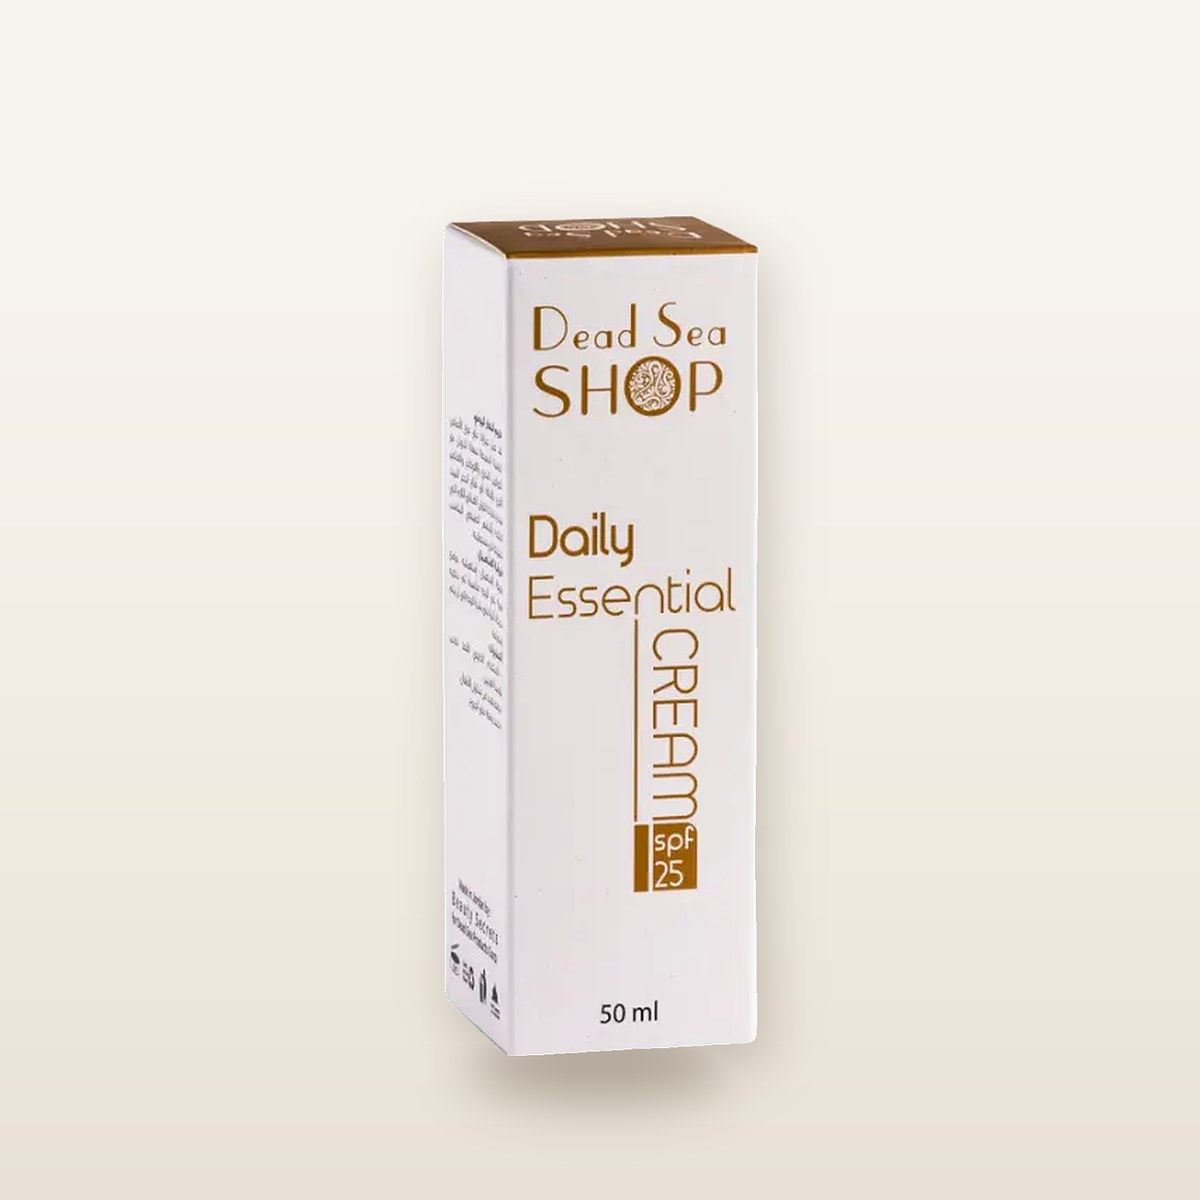
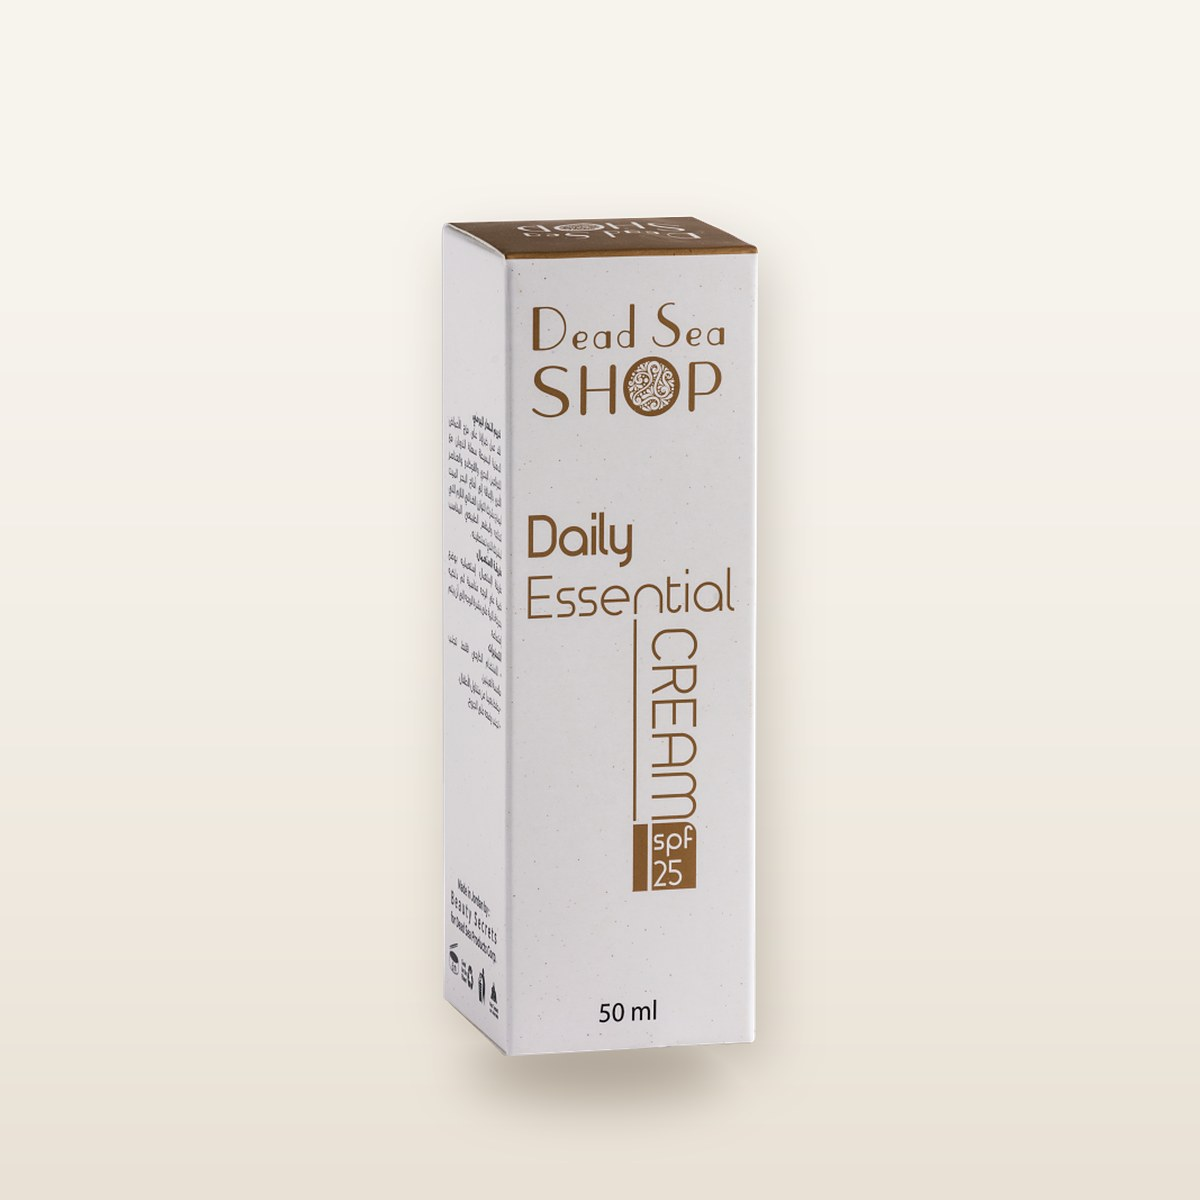
Use Beauty Secrets' own transparent PNGs for 6 products (sharper)

diff --git a/tools/room-salt/studio.py b/tools/room-salt/studio.py
@@ -41,6 +41,12 @@ def compose(sku, cut, fill=0.74):
 sess = new_session(sys.argv[1] if len(sys.argv) > 1 else "isnet-general-use")
 skus = sys.argv[2].split(",") if len(sys.argv) > 2 else sorted(set(SRC) | set(C))
 for sku in skus:
+    png = os.path.join(S, "png", sku + ".png")
+    if os.path.exists(png):  # supplier's own transparent cut-out, sharper than ours
+        cut = Image.open(png).convert("RGBA")
+        out = compose(sku, cut, 0.70).filter(ImageFilter.UnsharpMask(1.2, 40, 2))
+        out.save(os.path.join(S, "out", sku + ".jpg"), quality=88, optimize=True, progressive=True)
+        print(sku, "png", cut.size, flush=True); continue
     im = fetch(sku)
     if sku in C:
         im = ImageOps.autocontrast(im, cutoff=0.5); im = ImageEnhance.Brightness(im).enhance(1.05)
